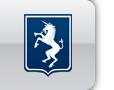
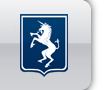
Clean up redundancies in touch.css; remove extraneous combination of negative left margin on compliant homelink and extra pixels on left side of associated images; remove duplicative <a name=top> in compliant header.tpl

diff --git a/app/common/css/compliant.css b/app/common/css/compliant.css
@@ -332,7 +332,6 @@ input.formbutton {
 
 a.homelink {
     background-image: none;
-    margin-left: -2px;
     margin-right: -5px;
     padding: 0!important;	/* !important necessitated by IE for WP7 grrr */
     width: 62px;

diff --git a/site/Universitas/themes/simple/common/css/touch.css b/site/Universitas/themes/simple/common/css/touch.css
@@ -1,6 +1,7 @@
 /* Overall font and colors */
 
 body {
+	/* Touch uses a slightly different base font size */
 	font: 16px/1.33em sans-serif;
 }
 
